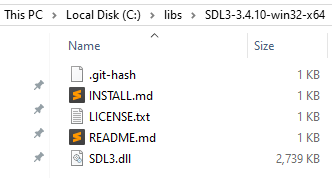
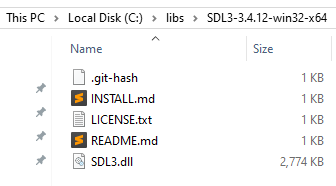
Fix versions and links

diff --git a/tutorials/sdl3-renderer/mingw/setting-up-sdl3-mingw/index.html b/tutorials/sdl3-renderer/mingw/setting-up-sdl3-mingw/index.html
@@ -203,8 +203,8 @@
 <div class="container bg-white p-5 shadow-sm rounded mb-5">
     <header class="mb-5 border-bottom pb-3">
         <h1 class="fw-bold">
-            <span class="data-en">SDL3 Desktop: Setup for C and C++ (MinGW 13.1)</span>
-            <span class="data-ru">SDL3 для Desktop: Настройка для C и C++ (MinGW 13.1)</span>
+            <span class="data-en">SDL3 Desktop: Setup for C and C++ (MinGW and CMake)</span>
+            <span class="data-ru">SDL3 для Desktop: Настройка для C и C++ (MinGW and CMake)</span>
         </h1>
         <p class="lead text-muted">
             <span class="data-en">A guide to configuring SDL3 with CMake and MinGW on Windows for both C and C++.</span>
@@ -213,47 +213,47 @@
     </header>
 
     <div class="alert alert-primary">
-        <span class="data-en"><strong>Prerequisite:</strong> Ensure you have followed the <a href="/tutorials/tools/mingw/setup-mingw/" target="_blank" rel="noopener noreferrer">Environment Setup Guide</a> (MinGW 13.1 & CMake)</span>
-        <span class="data-ru"><strong>Предварительное условие:</strong> Убедитесь, что вы выполнили инструкции из <a href="/tutorials/tools/mingw/setup-mingw/" target="_blank" rel="noopener noreferrer">руководства по настройке среды</a> (MinGW 13.1 и CMake)</span>
+        <span class="data-en"><strong>Prerequisite:</strong> Ensure you have followed the <a href="/tutorials/tools/mingw/setup-mingw/" target="_blank" rel="noopener noreferrer">Environment Setup Guide</a> (MinGW & CMake)</span>
+        <span class="data-ru"><strong>Предварительное условие:</strong> Убедитесь, что вы выполнили инструкции из <a href="/tutorials/tools/mingw/setup-mingw/" target="_blank" rel="noopener noreferrer">руководства по настройке среды</a> (MinGW и CMake)</span>
     </div>
 
     <h3 class="category-header">
-        <span class="data-en">1. Obtain SDL 3.4.10</span>
-        <span class="data-ru">1. Получение SDL 3.4.10</span>
+        <span class="data-en">Obtain SDL 3.4.12</span>
+        <span class="data-ru">Получение SDL 3.4.12</span>
     </h3>
 
     <ul>
         <li>
             <span class="data-en">
-                Download two archives from the <a href="https://github.com/libsdl-org/SDL/releases/tag/release-3.4.10" target="_blank" rel="noopener noreferrer">official release page</a>:
+                Download two archives from the <a href="https://github.com/libsdl-org/SDL/releases/tag/release-3.4.12" target="_blank" rel="noopener noreferrer">official release page</a>:
             </span>
             <span class="data-ru">
-                Скачайте два архива со страницы <a href="https://github.com/libsdl-org/SDL/releases/tag/release-3.4.10" target="_blank" rel="noopener noreferrer">официального релиза</a>:
+                Скачайте два архива со страницы <a href="https://github.com/libsdl-org/SDL/releases/tag/release-3.4.12" target="_blank" rel="noopener noreferrer">официального релиза</a>:
             </span>
             <br>
             <img src="/assets/img/tutorials/sdl3-renderer/mingw/setting-up-sdl3/download-sdl3.png" alt="Download Link" class="img-fluid border rounded mt-3 shadow-sm">
         </li>
         <li>
             <span class="data-en">
-                Extract the <b>SDL3-devel-3.4.10-mingw.zip</b> archive to the <code>C:/libs/SDL3-devel-3.4.10-mingw</code> folder.
+                Extract the <b>SDL3-devel-3.4.12-mingw.zip</b> archive to the <code>C:/libs/SDL3-devel-3.4.12-mingw</code> folder.
             </span>
             <span class="data-ru">
-                Распакуйте архив <b>SDL3-devel-3.4.10-mingw.zip</b> в папку <code>C:/libs/SDL3-devel-3.4.10-mingw</code>.
+                Распакуйте архив <b>SDL3-devel-3.4.12-mingw.zip</b> в папку <code>C:/libs/SDL3-devel-3.4.12-mingw</code>.
             </span>
         </li>
         <li>
             <span class="data-en">
-                Move the headers and libraries so the structure is <code>SDL3-devel-3.4.10-mingw/include</code>, etc:
+                Move the headers and libraries so the structure is <code>SDL3-devel-3.4.12-mingw/include</code>, etc:
             </span>
             <span class="data-ru">
-                Переместите заголовочные файлы и библиотеки так, чтобы структура папок была <code>SDL3-devel-3.4.10-mingw/include</code> и т. д.:
+                Переместите заголовочные файлы и библиотеки так, чтобы структура папок была <code>SDL3-devel-3.4.12-mingw/include</code> и т. д.:
             </span>
             <br>
             <img src="/assets/img/tutorials/sdl3-renderer/mingw/setting-up-sdl3/setting-up-sdl3-1.png" alt="Folder structure Link" class="img-fluid border rounded mt-3 shadow-sm">
         </li>
         <li>
-            <span class="data-en">Extract the <b>SDL3-3.4.10-win32-x64.zip</b> archive so the path is exactly <code>C:/libs/SDL3-3.4.10-win32-x64</code>:</span>
-            <span class="data-ru">Распакуйте архив <b>SDL3-3.4.10-win32-x64.zip</b> так, чтобы путь был именно <code>C:/libs/SDL3-3.4.10-win32-x64</code>:</span>
+            <span class="data-en">Extract the <b>SDL3-3.4.12-win32-x64.zip</b> archive so the path is exactly <code>C:/libs/SDL3-3.4.12-win32-x64</code>:</span>
+            <span class="data-ru">Распакуйте архив <b>SDL3-3.4.12-win32-x64.zip</b> так, чтобы путь был именно <code>C:/libs/SDL3-3.4.12-win32-x64</code>:</span>
             <br>
             <img src="/assets/img/tutorials/sdl3-renderer/mingw/setting-up-sdl3/setting-up-sdl3-2.png" alt="Folder structure Link" class="img-fluid border rounded mt-3 shadow-sm">
         </li>
@@ -300,36 +300,36 @@
     </div> -->
 
     <h3 class="category-header">
-        <span class="data-en">2. Add SDL3 to Environment Variables (Path)</span>
-        <span class="data-ru">2. Добавление SDL3 в переменные среды (Path)</span>
+        <span class="data-en">Add SDL3 to Environment Variables (Path)</span>
+        <span class="data-ru">Добавление SDL3 в переменные среды (Path)</span>
     </h3>
     <p class="mt-3">
         <span class="data-en">To ensure your applications can find the <code>SDL3.dll</code> file at runtime, you should add the following path to the <b>Path</b> variable in your <b>User variables</b> section:</span>
         <span class="data-ru">Чтобы приложения могли находить <code>SDL3.dll</code> файл при запуске, добавьте следующий путь в переменную <b>Path</b> в разделе <b>Переменные среды пользователя</b>:</span>
     </p>
     <div class="bg-light p-3 rounded border-start border-4 border-warning mb-4">
-        <code>C:\libs\SDL3-3.4.10-win32-x64</code>
+        <code>C:\libs\SDL3-3.4.12-win32-x64</code>
     </div>
 
     <h3 class="category-header">
-        <span class="data-en">3. Project Structure</span>
-        <span class="data-ru">3. Структура проекта</span>
+        <span class="data-en">Project Structure</span>
+        <span class="data-ru">Структура проекта</span>
     </h3>
 
     <div class="row">
         <div class="col-lg-6 mb-4">
-            <p class="data-en"><strong>C Project:</strong> Create an empty folder named <code>rectangle-sdl3-c</code> and set up the following hierarchy by creating new <code>CMakeLists.txt</code> and <code>main.c</code> files:</p>
-            <p class="data-ru"><strong>Проект на C:</strong> Создайте пустую папку с именем <code>rectangle-sdl3-c</code> и подготовьте следующую иерархию, создав файлы <code>CMakeLists.txt</code> и <code>main.c</code>:</p>
-            <pre><code>rectangle-sdl3-c/
+            <p class="data-en"><strong>C Project:</strong> Create an empty folder named <code>rectangles-main-sdl3-mingw-c</code> and set up the following hierarchy by creating new <code>CMakeLists.txt</code> and <code>main.c</code> files:</p>
+            <p class="data-ru"><strong>Проект на C:</strong> Создайте пустую папку с именем <code>rectangles-main-sdl3-mingw-c</code> и подготовьте следующую иерархию, создав файлы <code>CMakeLists.txt</code> и <code>main.c</code>:</p>
+            <pre><code>rectangles-main-sdl3-mingw-c/
 ├── CMakeLists.txt
 └── src/
     └── main.c</code></pre>
         </div>
 
         <div class="col-lg-6 mb-4">
-            <p class="data-en"><strong>C++ Project:</strong> Create an empty folder named <code>rectangle-sdl3-cpp</code> and set up the following hierarchy by creating new <code>CMakeLists.txt</code> and <code>main.cpp</code> files:</p>
-            <p class="data-ru"><strong>Проект на C++:</strong> Создайте пустую папку с именем <code>rectangle-sdl3-cpp</code> и подготовьте следующую иерархию, создав файлы <code>CMakeLists.txt</code> и <code>main.cpp</code>:</p>
-            <pre><code>rectangle-sdl3-cpp/
+            <p class="data-en"><strong>C++ Project:</strong> Create an empty folder named <code>rectangles-main-sdl3-mingw-cpp</code> and set up the following hierarchy by creating new <code>CMakeLists.txt</code> and <code>main.cpp</code> files:</p>
+            <p class="data-ru"><strong>Проект на C++:</strong> Создайте пустую папку с именем <code>rectangles-main-sdl3-mingw-cpp</code> и подготовьте следующую иерархию, создав файлы <code>CMakeLists.txt</code> и <code>main.cpp</code>:</p>
+            <pre><code>rectangles-main-sdl3-mingw-cpp/
 ├── CMakeLists.txt
 └── src/
     └── main.cpp</code></pre>
@@ -344,8 +344,8 @@
     </p>
 
     <h3 class="category-header">
-        <span class="data-en">4. Project Configuration (CMakeLists.txt)</span>
-        <span class="data-ru">4. Конфигурация проекта (CMakeLists.txt)</span>
+        <span class="data-en">Project Configuration (CMakeLists.txt)</span>
+        <span class="data-ru">Конфигурация проекта (CMakeLists.txt)</span>
     </h3>
 
     <div class="row">
@@ -355,9 +355,9 @@
             <h6 class="fw-bold text-primary">CMakeLists.txt (C version)</h6>
             <pre><code class="language-cmake">set(CMAKE_BUILD_TYPE "Debug")
 cmake_minimum_required(VERSION 3.21)
-project(rectangle-sdl3-c)
+project(rectangles-main-sdl3-mingw-c)
 
-set(SDL3_DIR "C:/libs/SDL3-devel-3.4.10-mingw/lib/cmake/SDL3")
+set(SDL3_DIR "C:/libs/SDL3-devel-3.4.12-mingw/lib/cmake/SDL3")
 find_package(SDL3 REQUIRED)
 
 add_executable(app)
@@ -368,7 +368,12 @@ PRIVATE
 )
 
 target_link_libraries(app PRIVATE SDL3::SDL3)
-target_link_options(app PRIVATE -mconsole)</code></pre>
+
+if (CMAKE_BUILD_TYPE STREQUAL "Debug")
+    target_link_options(app PRIVATE -mconsole)
+else()
+    target_link_options(app PRIVATE -mwindows)
+endif()</code></pre>
         </div>
 
         <div class="col-lg-6 mb-4">
@@ -377,9 +382,9 @@ target_link_options(app PRIVATE -mconsole)</code></pre>
             <h6 class="fw-bold text-success">CMakeLists.txt (C++ version)</h6>
             <pre><code class="language-cmake">set(CMAKE_BUILD_TYPE "Debug")
 cmake_minimum_required(VERSION 3.21)
-project(rectangle-sdl3-cpp)
+project(rectangles-main-sdl3-mingw-c)
 
-set(SDL3_DIR "C:/libs/SDL3-devel-3.4.10-mingw/lib/cmake/SDL3")
+set(SDL3_DIR "C:/libs/SDL3-devel-3.4.12-mingw/lib/cmake/SDL3")
 find_package(SDL3 REQUIRED)
 
 add_executable(app)
@@ -390,13 +395,18 @@ PRIVATE
 )
 
 target_link_libraries(app PRIVATE SDL3::SDL3)
-target_link_options(app PRIVATE -mconsole)</code></pre>
+
+if (CMAKE_BUILD_TYPE STREQUAL "Debug")
+    target_link_options(app PRIVATE -mconsole)
+else()
+    target_link_options(app PRIVATE -mwindows)
+endif()</code></pre>
         </div>
     </div>
 
     <h3 class="category-header">
-        <span class="data-en">5. Source Code</span>
-        <span class="data-ru">5. Исходный код</span>
+        <span class="data-en">Source Code</span>
+        <span class="data-ru">Исходный код</span>
     </h3>
 
     <p class="data-en">Copy and paste the following code into the <code>src/main.c</code> (or <code>src/main.cpp</code>) file:</p>
@@ -443,16 +453,16 @@ int main(int argc, char* argv[])
 }</code></pre>
 
     <h3 class="category-header">
-        <span class="data-en">6. Opening the Project in IDEs</span>
-        <span class="data-ru">6. Открытие проекта в IDE</span>
+        <span class="data-en">Opening the Project in IDEs</span>
+        <span class="data-ru">Открытие проекта в IDE</span>
     </h3>
     <p>
         <span class="data-en">Open the <b>CMakeLists.txt</b> file in <b>CLion</b> or <b>Qt Creator</b>. CMake will handle the rest.</span>
         <span class="data-ru">Откройте файл <b>CMakeLists.txt</b> в <b>CLion</b> или <b>Qt Creator</b>. CMake позаботится об остальном.</span>
     </p>
     <h3 class="category-header">
-        <span class="data-en">7. Automation Scripts (.bat)</span>
-        <span class="data-ru">7. Скрипты автоматизации (.bat)</span>
+        <span class="data-en">Automation Scripts (.bat)</span>
+        <span class="data-ru">Скрипты автоматизации (.bat)</span>
     </h3>
 
     <p class="data-en">
@@ -545,9 +555,39 @@ run-exe</code></pre>
         </div>
     </div> -->
 
+    <h3 class="category-header mt-5">
+        <span class="data-en">GitHub Repository</span>
+        <span class="data-ru">GitHub Репозиторий</span>
+    </h3>
+
+    <p class="mt-3">
+        <span class="data-en">You can explore the source code and download the complete project directly from the GitHub repository:</span>
+        <span class="data-ru">Вы можете изучить исходный код и скачать готовый проект напрямую из репозитория на GitHub:</span>
+    </p>
+
+    <div class="d-flex flex-wrap gap-3 my-4">
+        <div class="d-flex flex-wrap gap-2 align-items-center">
+            <span class="fw-bold me-2">C Version:</span>
+            <a href="https://github.com/ivan-enzhaev/rectangles-sdl3-mingw-c" target="_blank" rel="noopener noreferrer" class="btn btn-outline-dark btn-sm d-inline-flex align-items-center">
+                <i class="fab fa-github me-2"></i>
+                <span class="data-en">View C Repo</span>
+                <span class="data-ru">Репозиторий (C)</span>
+            </a>
+        </div>
+
+        <div class="d-flex flex-wrap gap-2 align-items-center">
+            <span class="fw-bold me-2">C++ Version:</span>
+            <a href="https://github.com/ivan-enzhaev/rectangles-sdl3-mingw-cpp" target="_blank" rel="noopener noreferrer" class="btn btn-outline-dark btn-sm d-inline-flex align-items-center">
+                <i class="fab fa-github me-2"></i>
+                <span class="data-en">View C++ Repo</span>
+                <span class="data-ru">Репозиторий (C++)</span>
+            </a>
+        </div>
+    </div>
+
     <h3 class="category-header">
-        <span class="data-en">8. Alternative: SDL3 Callback System</span>
-        <span class="data-ru">8. Альтернатива: Система Callbacks в SDL3</span>
+        <span class="data-en">Alternative: SDL3 Callback System</span>
+        <span class="data-ru">Альтернатива: Система Callbacks в SDL3</span>
     </h3>
 
     <p class="data-en">

diff --git a/index.html b/index.html
@@ -873,8 +873,8 @@
                         <span class="data-ru">Настройка SDL3 с помощью find_package (MinGW)</span>
                     </h5>
                     <p class="card-text text-muted small">
-                        <span class="data-en">Building and running an SDL3 application in C or C++ on Windows using MinGW 13.1 and CMake.</span>
-                        <span class="data-ru">Сборка и запуск приложения SDL3 на C или C++ на Windows с использованием MinGW 13.1 и CMake.</span>
+                        <span class="data-en">Building and running an SDL3 application in C or C++ on Windows using MinGW and CMake.</span>
+                        <span class="data-ru">Сборка и запуск приложения SDL3 на C или C++ на Windows с использованием MinGW и CMake.</span>
                     </p>
                     <a href="/tutorials/sdl3-renderer/mingw/setting-up-sdl3-mingw/" target="_blank" class="btn btn-outline-dark btn-sm lang-link-dynamic">View</a>
                 </div>
@@ -942,8 +942,8 @@
                         <span class="data-ru">Настройка SDL3_mixer с помощью find_package (MinGW)</span>
                     </h5>
                     <p class="card-text text-muted small">
-                        <span class="data-en">Playing music and sound effects in SDL3 using SDL3_mixer, MinGW 13.1, and CMake.</span>
-                        <span class="data-ru">Воспроизведение музыки и звуковых эффектов в SDL3 с использованием SDL3_mixer, MinGW 13.1 и CMake.</span>
+                        <span class="data-en">Playing music and sound effects in SDL3 using SDL3_mixer, MinGW, and CMake.</span>
+                        <span class="data-ru">Воспроизведение музыки и звуковых эффектов в SDL3 с использованием SDL3_mixer, MinGW и CMake.</span>
                     </p>
                     <a href="/tutorials/sdl3-renderer/mingw/setting-up-sdl3-mixer-mingw/" target="_blank" class="btn btn-outline-dark btn-sm lang-link-dynamic">View</a>
                 </div>
@@ -1179,8 +1179,8 @@
                         <span class="data-ru">Настройка SDL3 с OpenGL и GLAD (MinGW)</span>
                     </h5>
                     <p class="card-text text-muted small">
-                        <span class="data-en">Building and running an SDL3 application with OpenGL and GLAD in C or C++ on Windows using MinGW 13.1 and CMake.</span>
-                        <span class="data-ru">Сборка и запуск приложения SDL3 с использованием OpenGL и GLAD на C или C++ на Windows с помощью MinGW 13.1 и CMake.</span>
+                        <span class="data-en">Building and running an SDL3 application with OpenGL and GLAD in C or C++ on Windows using MinGW and CMake.</span>
+                        <span class="data-ru">Сборка и запуск приложения SDL3 с использованием OpenGL и GLAD на C или C++ на Windows с помощью MinGW и CMake.</span>
                     </p>
                     <a href="/tutorials/sdl3-opengl/mingw/setting-up-sdl3-opengl-mingw/" target="_blank" class="btn btn-outline-dark btn-sm lang-link-dynamic">View</a>
                 </div>

diff --git a/tutorials/sdl3-opengl/mingw/setting-up-sdl3-opengl-mingw/index.html b/tutorials/sdl3-opengl/mingw/setting-up-sdl3-opengl-mingw/index.html
@@ -207,14 +207,14 @@
             <span class="data-ru">Настройка SDL3 с OpenGL и GLAD (MinGW)</span>
         </h1>
         <p class="lead text-muted">
-            <span class="data-en">Building and running an SDL3 application with OpenGL and GLAD in C or C++ on Windows using MinGW 13.1 and CMake.</span>
-            <span class="data-ru">Сборка и запуск приложения SDL3 с использованием OpenGL и GLAD на C или C++ на Windows с помощью MinGW 13.1 и CMake.</span>
+            <span class="data-en">Building and running an SDL3 application with OpenGL and GLAD in C or C++ on Windows using MinGW and CMake.</span>
+            <span class="data-ru">Сборка и запуск приложения SDL3 с использованием OpenGL и GLAD на C или C++ на Windows с помощью MinGW и CMake.</span>
         </p>
     </header>
 
     <div class="alert alert-primary">
-        <span class="data-en"><strong>Prerequisite:</strong> Ensure you have followed the <a href="/tutorials/tools/mingw/setup-mingw/" target="_blank" rel="noopener noreferrer">Environment Setup Guide</a> (MinGW 13.1 & CMake)</span>
-        <span class="data-ru"><strong>Предварительное условие:</strong> Убедитесь, что вы выполнили инструкции из <a href="/tutorials/tools/mingw/setup-mingw/" target="_blank" rel="noopener noreferrer">руководства по настройке среды</a> (MinGW 13.1 и CMake)</span>
+        <span class="data-en"><strong>Prerequisite:</strong> Ensure you have followed the <a href="/tutorials/tools/mingw/setup-mingw/" target="_blank" rel="noopener noreferrer">Environment Setup Guide</a> (MinGW & CMake)</span>
+        <span class="data-ru"><strong>Предварительное условие:</strong> Убедитесь, что вы выполнили инструкции из <a href="/tutorials/tools/mingw/setup-mingw/" target="_blank" rel="noopener noreferrer">руководства по настройке среды</a> (MinGW и CMake)</span>
     </div>
 
     <h3 class="category-header">

diff --git a/tutorials/sdl3-renderer/mingw/setting-up-sdl3-mixer-mingw/index.html b/tutorials/sdl3-renderer/mingw/setting-up-sdl3-mixer-mingw/index.html
@@ -203,8 +203,8 @@
 <div class="container bg-white p-5 shadow-sm rounded mb-5">
     <header class="mb-5 border-bottom pb-3">
         <h1 class="fw-bold">
-            <span class="data-en">SDL3 Desktop: SDL3_mixer Setup (MinGW 13.1)</span>
-            <span class="data-ru">SDL3 для Desktop: Настройка SDL3_mixer (MinGW 13.1)</span>
+            <span class="data-en">SDL3 Desktop: SDL3_mixer Setup (MinGW and CMake)</span>
+            <span class="data-ru">SDL3 для Desktop: Настройка SDL3_mixer (MinGW and CMake)</span>
         </h1>
         <p class="lead text-muted">
             <span class="data-en">A guide to configuring the SDL3_mixer extension library with CMake and MinGW.</span>
@@ -213,8 +213,8 @@
     </header>
 
     <div class="alert alert-primary">
-        <span class="data-en"><strong>Prerequisite:</strong> Ensure you have SDL3 already configured. See the <a href="/tutorials/sdl3-renderer/mingw/setting-up-sdl3/" target="_blank">SDL3 Setup Guide</a>.</span>
-        <span class="data-ru"><strong>Предварительное условие:</strong> Убедитесь, что SDL3 уже настроен. См. <a href="/tutorials/sdl3-renderer/mingw/setting-up-sdl3/" target="_blank">руководство по настройке SDL3</a>.</span>
+        <span class="data-en"><strong>Prerequisite:</strong> Ensure you have SDL3 already configured. See the <a href="/tutorials/sdl3-renderer/mingw/setting-up-sdl3-mingw/" target="_blank">SDL3 Setup Guide</a>.</span>
+        <span class="data-ru"><strong>Предварительное условие:</strong> Убедитесь, что SDL3 уже настроен. См. <a href="/tutorials/sdl3-renderer/mingw/setting-up-sdl3-mingw/" target="_blank">руководство по настройке SDL3</a>.</span>
     </div>
 
     <h3 class="category-header">

diff --git a/tutorials/sdl3-opengl/3-in-1/simple-triangle-2d-3-in-1-sdl3-opengl/index.html b/tutorials/sdl3-opengl/3-in-1/simple-triangle-2d-3-in-1-sdl3-opengl/index.html
@@ -237,7 +237,7 @@
     <div class="d-flex flex-wrap gap-3 my-4">
         <div class="d-flex flex-wrap gap-2 align-items-center">
             <span class="fw-bold me-2">C Version:</span>
-            <a href="https://github.com/ivan-enzhaev/simple-triangle-3d-3-in-1-opengl-sdl3-c" target="_blank" rel="noopener noreferrer" class="btn btn-outline-dark btn-sm d-inline-flex align-items-center">
+            <a href="https://github.com/ivan-enzhaev/simple-triangle-2d-3-in-1-opengl-sdl3-c" target="_blank" rel="noopener noreferrer" class="btn btn-outline-dark btn-sm d-inline-flex align-items-center">
                 <i class="fab fa-github me-2"></i>
                 <span class="data-en">View C Repo</span>
                 <span class="data-ru">Репозиторий (C)</span>
@@ -246,7 +246,7 @@
 
         <div class="d-flex flex-wrap gap-2 align-items-center">
             <span class="fw-bold me-2">C++ Version:</span>
-            <a href="https://github.com/ivan-enzhaev/simple-triangle-3d-3-in-1-opengl-sdl3-cpp" target="_blank" rel="noopener noreferrer" class="btn btn-outline-dark btn-sm d-inline-flex align-items-center">
+            <a href="https://github.com/ivan-enzhaev/simple-triangle-2d-3-in-1-opengl-sdl3-cpp" target="_blank" rel="noopener noreferrer" class="btn btn-outline-dark btn-sm d-inline-flex align-items-center">
                 <i class="fab fa-github me-2"></i>
                 <span class="data-en">View C++ Repo</span>
                 <span class="data-ru">Репозиторий (C++)</span>
